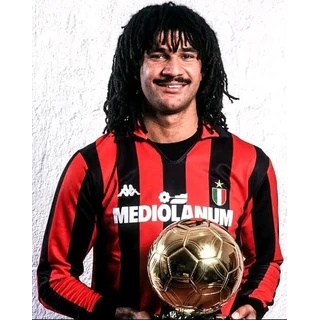
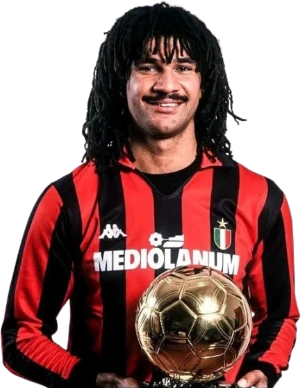
Fix player portraits and club badges

diff --git a/app.js b/app.js
@@ -30,7 +30,7 @@ function trophy(kind,col,stripes){
    glove:'<rect x="19" y="20" width="26" height="24" rx="8" fill="'+M+'"/><rect x="19" y="5" width="6" height="20" rx="3" fill="'+M+'"/><rect x="26" y="3" width="6" height="21" rx="3" fill="'+M+'"/><rect x="33" y="4" width="6" height="21" rx="3" fill="'+M+'"/><rect x="40" y="8" width="5" height="17" rx="2.5" fill="'+M+'"/><rect x="9" y="22" width="13" height="6" rx="3" transform="rotate(30 16 25)" fill="'+M+'"/><rect x="20" y="42" width="24" height="8" rx="2" fill="#2a2018"/><path d="M22 46h20" stroke="'+col+'" stroke-width="2"/>'};
   return '<svg class="trophy" viewBox="0 0 64 64" aria-hidden="true">'+defs+(k[kind]||k.cup)+'</svg>';
 }
-const COMP_BADGES={copa:"copa-america",wwc:"womens-world-cup",pl:"premier-league",liga:"la-liga",seriea:"serie-a",bundes:"bundesliga",ligue1:"ligue-1",portugal:"primeira-liga",ered:"eredivisie",brasileirao:"brasileirao",mls:"mls.svg",spl:"saudi-pro-league",j1:"j1-league"};
+const COMP_BADGES={copa:"copa-america",wwc:"womens-world-cup",pl:"premier-league",liga:"la-liga",seriea:"serie-a",bundes:"bundesliga",ligue1:"ligue-1",portugal:"primeira-liga",ered:"eredivisie",brasileirao:"brasileirao",mls:"custom-mls",spl:"saudi-pro-league",j1:"j1-league"};
 const LEAGUE_BADGE_IDS={"Premier League":"pl","La Liga":"liga","Serie A":"seriea","Bundesliga":"bundes","Ligue 1":"ligue1","Primeira Liga":"portugal","Eredivisie":"ered","Brasileirão Série A":"brasileirao","MLS":"mls","Saudi Pro League":"spl","J1 League":"j1"};
 function leagueBadge(name,cls="league-badge-mini"){const badge=COMP_BADGES[LEAGUE_BADGE_IDS[name]];return badge?'<img class="'+cls+'" src="assets/competition-badges/'+(badge.endsWith(".svg")?badge:badge+'.png')+'?v=assets-20261104" alt="" aria-hidden="true">':''}
 function compArtwork(c){const badge=COMP_BADGES[c.id];return badge?'<img class="trophy comp-logo" src="assets/competition-badges/'+(badge.endsWith(".svg")?badge:badge+'.png')+'?v=assets-20261104'+'" alt="" aria-hidden="true">':trophy(c.icon,c.col,c.stripes)}
@@ -85,12 +85,12 @@ const JVAR={};
     JVAR[c[0]]={d,c:co}})}
 })();
 const PLAYER_PHOTOS={
- "Jude Bellingham":"bellingham","Lamine Yamal":"yamal","Erling Haaland":"haaland","Kylian Mbappé":"mbappe","Michael Olise":"olise","Pedri":"pedri","Vinícius Júnior":"vinicius","Vitinha":"vitinha","Khvicha Kvaratskhelia":"kvaratskhelia","João Neves":"joao-neves",
- "Gonçalo Ramos":"goncalo-ramos","Savinho":"savinho","Sandro Tonali":"sandro-tonali","Mateus Fernandes":"mateus-fernandes","Neymar":"neymar","Ousmane Dembélé":"dembele","Alexander Isak":"alexander-isak","Philippe Coutinho":"philippe-coutinho","João Félix":"joao-felix","Eden Hazard":"eden-hazard","Florian Wirtz":"florian-wirtz","Antoine Griezmann":"antoine-griezmann","Jack Grealish":"jack-grealish","Cristiano Ronaldo":"cristiano-ronaldo-2009","Declan Rice":"declan-rice","Moisés Caicedo":"moises-caicedo","Romelu Lukaku":"romelu-lukaku","Paul Pogba":"paul-pogba","Gareth Bale":"gareth-bale","Antony":"antony","Hugo Ekitiké":"hugo-ekitike","Harry Kane":"harry-kane",
+ "Jude Bellingham":"bellingham","Lamine Yamal":"yamal","Enzo Fernández":"enzo-fernandez","Morgan Rogers":"morgan-rogers","Elliot Anderson":"elliot-anderson","Yan Diomande":"yan-diomande","Bradley Barcola":"bradley-barcola","Carlos Baleba":"carlos-baleba","Gonçalo Ramos":"goncalo-ramos","Savinho":"savinho","Sandro Tonali":"sandro-tonali","Mateus Fernandes":"mateus-fernandes","Iliman Ndiaye":"iliman-ndiaye","Anthony Gordon":"anthony-gordon","Erling Haaland":"haaland","Kylian Mbappé":"mbappe","Michael Olise":"olise","Pedri":"pedri","Vinícius Júnior":"vinicius","Vitinha":"vitinha","Khvicha Kvaratskhelia":"kvaratskhelia","João Neves":"joao-neves",
+ "Neymar":"neymar","Ousmane Dembélé":"dembele","Alexander Isak":"alexander-isak","Philippe Coutinho":"philippe-coutinho","João Félix":"joao-felix","Eden Hazard":"eden-hazard","Florian Wirtz":"florian-wirtz","Antoine Griezmann":"antoine-griezmann","Jack Grealish":"jack-grealish","Cristiano Ronaldo":"cristiano-ronaldo-2009","Declan Rice":"declan-rice","Moisés Caicedo":"moises-caicedo","Romelu Lukaku":"romelu-lukaku","Paul Pogba":"paul-pogba","Gareth Bale":"gareth-bale","Antony":"antony","Hugo Ekitiké":"hugo-ekitike","Harry Kane":"harry-kane",
  "Kaká":"kaka","Zinedine Zidane":"zinedine-zidane","Luís Figo":"luis-figo","Luis Figo":"luis-figo","Hernán Crespo":"hernan-crespo","Christian Vieri":"christian-vieri","Denílson":"denilson","Ronaldo":"ronaldo-brazil","Alan Shearer":"alan-shearer","Gianluigi Lentini":"gianluca-lentini","Gianluca Lentini":"gianluca-lentini","Gianluca Vialli":"gianluca-vialli","Jean-Pierre Papin":"jean-pierre-papin","Roberto Baggio":"roberto-baggio","Ruud Gullit":"ruud-gullit","Diego Maradona":"maradona-1982",
  "Julián Álvarez":"julian-alvarez","Julian Álvarez":"julian-alvarez","Kai Havertz":"kai-havertz","Kevin De Bruyne":"kevin-de-bruyne","Luis Suárez":"luis-suarez","Luís Suárez":"luis-suarez","Hulk":"hulk","Fernando Torres":"fernando-torres-2007","David Villa":"david-villa","Robinho":"robinho","Andriy Shevchenko":"andriy-shevchenko","Michael Essien":"michael-essien","Wayne Rooney":"wayne-rooney","David Beckham":"david-beckham","Rio Ferdinand":"rio-ferdinand"
 };
-function playerPortrait(name,override){const photo=override||PLAYER_PHOTOS[name];return photo?'<img class="avatar player-photo" src="assets/player-photos/'+photo+'.webp?v=player-portraits-20261104c" alt="" aria-hidden="true" loading="lazy">':''}
+function playerPortrait(name,override){const photo=override||PLAYER_PHOTOS[name];return photo?'<img class="avatar player-photo" src="assets/player-photos/'+photo+'.webp?v=player-portraits-20261104d" alt="" aria-hidden="true" loading="lazy">':''}
 function recordPortrait(r){if(r[1]==="Diego Maradona")return r[0]==="1984"?"maradona-1984":"maradona-1982";return PLAYER_PHOTOS[r[1]]}
 function yearPortrait(r){if(r[1]==="Fernando Torres")return r[0]==="2011"?"fernando-torres-2011":"fernando-torres-2007";return PLAYER_PHOTOS[r[1]]}
 function avatar(name,col){
@@ -582,7 +582,7 @@ inits.transfers=function(){
     year:()=>{const max=Math.max(...YEAR_TOP.map(r=>r[5]));return '<p class="count">The most expensive signing of each calendar year since 2000 (£ million). Each bar is coloured in the main colour of the player\'s national team. Hover or tap a bar for the deal.</p><div class="ychart">'+YEAR_TOP.map(r=>'<div class="yc" tabindex="0"><span class="yv">£'+r[5]+'m</span><span class="yb natbar" style="height:'+(r[5]/max*100)+'%;--nc:'+(NATCOL[r[2]]||"#f5c542")+'"></span><span class="yl">'+r[0].slice(2)+'</span><div class="ytip">'+playerPortrait(r[1],yearPortrait(r))+flag(r[2])+'<b>'+r[0]+' · '+esc(r[1])+'</b><br>'+esc(r[3])+' → '+esc(r[4])+'<br>£'+r[5]+'m</div></div>').join("")+'</div><div class="stwrap"><table class="sttable trt"><thead><tr><th>Year</th><th>Player</th><th>From</th><th>To</th><th>Fee</th></tr></thead><tbody>'+YEAR_TOP.slice().reverse().map(r=>'<tr><td>'+r[0]+'</td><td>'+playerPortrait(r[1],yearPortrait(r))+flag(r[2])+'<b>'+esc(r[1])+'</b></td><td><span class="nm">'+teamIcon(r[3],"clubs")+esc(r[3])+'</span></td><td><span class="nm">'+teamIcon(r[4],"clubs")+esc(r[4])+'</span></td><td><b>£'+r[5]+'m</b></td></tr>').join("")+'</tbody></table></div>'},
     top:()=>{const yrs=[...new Set(TOP_FEES.map(r=>r[4]))].sort((a,b)=>b-a);const clubs=[...new Set(TOP_FEES.flatMap(r=>[r[2],r[3]]))].sort();
       return '<p class="count">The '+TOP_FEES.length+' biggest transfer fees ever (€ million, including add-ons where reported). Filter by year, club or position.</p><div class="toolbar"><input type="search" id="tfQ" placeholder="Search a player" aria-label="Search a player"><select id="tfY" aria-label="Year"><option value="">All years</option>'+yrs.map(y=>'<option>'+y+'</option>').join("")+'</select><select id="tfC" aria-label="Club"><option value="">All clubs (buying or selling)</option>'+clubs.map(c=>'<option>'+esc(c)+'</option>').join("")+'</select><select id="tfP" aria-label="Position"><option value="">All positions</option><option value="FW">Forwards</option><option value="MF">Midfielders</option></select></div><p class="count" id="tfN"></p><div class="stwrap"><table class="sttable trt" id="tfT"></table></div>'},
-    summer:()=>{const max=SUMMER_2026[0][3];return '<p class="count">The biggest deals of the summer 2026 window, right after the World Cup (£ million). English clubs spent the most.</p><div class="vlist">'+SUMMER_2026.map((r,i)=>'<div class="vrow"><span class="rk">'+(i+1)+'</span><span class="vn">'+playerPortrait(r[0])+'<span><b>'+esc(r[0])+'</b><small>'+teamIcon(r[1],"clubs",18)+esc(r[1])+' → '+teamIcon(r[2],"clubs",18)+esc(r[2])+'</small></span></span><span class="vbar" style="width:'+(r[3]/max*100)+'%"></span><span class="vv">£'+r[3]+'m</span></div>').join("")+'</div>'},
+    summer:()=>{const max=SUMMER_2026[0][3];return '<p class="count">The biggest deals of the summer 2026 window, right after the World Cup (£ million). English clubs spent the most.</p><div class="vlist summer-list">'+SUMMER_2026.map((r,i)=>'<div class="vrow"><span class="rk">'+(i+1)+'</span><span class="vn">'+playerPortrait(r[0])+'<span><b>'+esc(r[0])+'</b><small>'+teamIcon(r[1],"clubs",18)+esc(r[1])+' → '+teamIcon(r[2],"clubs",18)+esc(r[2])+'</small></span></span><span class="vbar" style="width:'+(r[3]/max*100)+'%"></span><span class="vv">£'+r[3]+'m</span></div>').join("")+'</div>'},
     squads:()=>{const L=Object.keys(TEAM_VALUES);const tot=l=>TEAM_VALUES[l].reduce((a,r)=>a+r[5],0);const m=v=>v>=1000?"€"+(v/1000).toFixed(2)+"bn":"€"+(v<10?v.toFixed(2):Math.round(v*10)/10)+"m";
       const lmax=Math.max(...L.map(tot));
       return '<p class="count">Total market value of every club squad in the seven big European leagues, 2026-27 (Transfermarkt). Pick a league.</p><div class="vlist" style="margin-bottom:14px">'+L.slice().sort((a,b)=>tot(b)-tot(a)).map((l,i)=>'<div class="vrow"><span class="rk'+(i===0?" g":"")+'">'+(i+1)+'</span><span class="vn"><b>'+leagueBadge(l,"value-league-badge")+esc(l)+'</b><small>'+TEAM_VALUES[l].length+' clubs · most valuable: '+teamIcon(TEAM_VALUES[l][0][0],"clubs",20)+esc(TEAM_VALUES[l][0][0])+'</small></span><span class="vbar" style="width:'+(tot(l)/lmax*100)+'%"></span><span class="vv">'+m(tot(l))+'</span></div>').join("")+'</div><div class="btns" id="tvTabs">'+L.map(l=>'<button data-l="'+esc(l)+'">'+esc(l)+'</button>').join("")+'</div><div id="tvOut"></div>'},

diff --git a/club-badges.js b/club-badges.js
@@ -1,1 +1,1 @@
-const CLUB_BADGE_IDS={"1. FC Köln":"122","AC Milan":"103","ADO Den Haag":"2726","AS Monaco":"174","AS Roma":"104","AZ Alkmaar":"140","Abha":"21833","Académico de Viseu":"21607","Ajax":"139","Al Ahli":"8346","Al Diriyah":"131746","Al Ettifaq":"8363","Al Faisaly":"21446","Al Fateh":"13033","Al Hazm":"21964","Al Hilal":"929","Al Ittihad":"2276","Al Khaleej":"21829","Al Kholood":"22028","Al Nassr":"817","Al Riyadh":"21965","Al Shabab":"793","Al Taawoun":"18459","Al-Fayha":"21827","Al-Qadsiah":"22022","Alavés":"96","Alverca":"21613","Angers":"7868","Arouca":"15784","Arsenal":"359","Aston Villa":"362","Atalanta":"105","Athletic Club":"93","Athletico Paranaense":"3458","Atlanta United":"18418","Atlético Madrid":"1068","Atlético Mineiro":"7632","Austin FC":"20906","Auxerre":"172","Avispa Fukuoka":"7107","Bahia":"9967","Barcelona":"83","Bayer Leverkusen":"131","Bayern Munich":"132","Benfica":"1929","Boca Juniors":"5","Bologna":"107","Borussia Dortmund":"124","Borussia Mönchengladbach":"268","Botafogo":"6086","Bournemouth":"349","Braga":"2994","Brentford":"337","Brest":"6997","Brighton":"331","CF Montréal":"9720","Cagliari":"2925","Cambuur":"3736","Casa Pia":"21581","Celta Vigo":"85","Celtic":"256","Cerezo Osaka":"7109","Chapecoense":"9318","Charlotte FC":"21300","Chelsea":"363","Chicago Fire":"182","Club América":"227","Colorado Rapids":"184","Columbus Crew":"183","Como":"2572","Corinthians":"874","Coritiba":"3456","Coventry City":"388","Cruzeiro":"2022","Crystal Palace":"384","Deportivo La Coruña":"90","Eintracht Frankfurt":"125","Elche":"3751","Espanyol":"88","Estoril Praia":"12216","Estrela da Amadora":"21610","Everton":"368","Excelsior":"2566","FC Augsburg":"3841","FC Barcelona":"83","FC Cincinnati":"18267","FC Dallas":"185","FC Groningen":"145","FC Porto":"437","FC Tokyo":"3384","FC Twente":"152","FC Utrecht":"153","Fagiano Okayama":"22522","Famalicão":"12698","Fenerbahçe":"436","Feyenoord":"142","Fiorentina":"109","Flamengo":"819","Fluminense":"3445","Fortuna Sittard":"143","Frosinone":"4057","Fulham":"370","Galatasaray":"432","Gamba Osaka":"7102","Genoa":"3263","Getafe":"2922","Gil Vicente":"3699","Go Ahead Eagles":"3706","Grêmio":"6273","Hamburger SV":"127","Heerenveen":"146","Houston Dynamo":"6077","Hull City":"306","Inter Miami":"20232","Inter Milan":"110","Internacional":"1936","Ipswich Town":"373","JEF United Chiba":"7111","Juventus":"111","Kashima Antlers":"7115","Kashiwa Reysol":"7476","Kawasaki Frontale":"7112","Kyoto Sanga":"21361","LA Galaxy":"187","Lazio":"112","Le Havre":"3236","Le Mans":"2697","Lecce":"113","Leeds United":"357","Lens":"175","Levante":"1538","Lille":"166","Liverpool":"364","Lorient":"273","Los Angeles FC":"18966","Lyon":"167","Machida Zelvia":"22167","Mainz 05":"2950","Mamelodi Sundowns":"7084","Manchester City":"382","Manchester United":"360","Marseille":"176","Marítimo":"552","Minnesota United":"17362","Mirassol":"9169","Mito HollyHock":"131701","Monaco":"174","Monza":"4007","Moreirense":"3696","Málaga":"99","NEC Nijmegen":"147","NEOM SC":"130899","Nacional":"3472","Nagoya Grampus":"7108","Napoli":"114","Nashville SC":"18986","New England Revolution":"189","New York City FC":"17606","New York Red Bulls":"190","Newcastle United":"361","Nice":"2502","Nottingham Forest":"393","Olympique Lyonnais":"167","Olympique de Marseille":"176","Orlando City":"12011","Osasuna":"97","PEC Zwolle":"2565","PSV Eindhoven":"148","Palmeiras":"2029","Paris FC":"6851","Paris Saint-Germain":"160","Parma":"115","Peñarol":"2683","Philadelphia Union":"10739","Portland Timbers":"9723","RB Leipzig":"11420","Racing Santander":"87","Rangers":"257","Rayo Vallecano":"101","Real Betis":"244","Real Madrid":"86","Real Salt Lake":"4771","Real Sociedad":"89","Red Bull Bragantino":"6079","Remo":"4936","Rennes":"169","Rio Ave":"3822","River Plate":"16","Roma":"104","SC Braga":"2994","SC Freiburg":"126","SC Paderborn":"3307","SV Elversberg":"10388","San Diego FC":"22529","San Jose Earthquakes":"191","Sanfrecce Hiroshima":"7114","Santa Clara":"12215","Santos":"2674","Sassuolo":"3997","Schalke 04":"133","Seattle Sounders":"9726","Sevilla":"243","Shimizu S-Pulse":"7104","Sparta Rotterdam":"151","Sporting CP":"2250","Sporting Kansas City":"186","St. Louis City":"21812","Strasbourg":"180","Sunderland":"366","São Paulo":"2026","TSG Hoffenheim":"7911","Telstar":"3735","Tokyo Verdy":"3393","Torino":"239","Toronto FC":"7318","Tottenham Hotspur":"367","Toulouse":"179","Troyes":"170","Udinese":"118","Union Berlin":"598","Urawa Red Diamonds":"3385","V-Varen Nagasaki":"19001","Valencia":"94","Vancouver Whitecaps":"9727","Vasco da Gama":"3454","Venezia":"17530","VfB Stuttgart":"134","Villarreal":"102","Vissel Kobe":"7477","Vitória":"5309","Vitória de Guimarães":"5309","Werder Bremen":"137","Willem II":"156","Yokohama F. Marinos":"7116","DC United":"193","VfL Wolfsburg":"82","Sampdoria":"1038","Burnley":"1132","West Ham United":"379"};
+const CLUB_BADGE_IDS={"1. FC Köln":"122","AC Milan":"103","ADO Den Haag":"2726","AS Monaco":"174","AS Roma":"104","AZ Alkmaar":"140","Abha":"21833","Académico de Viseu":"21607","Ajax":"139","Al Ahli":"8346","Al Diriyah":"131746","Al Ettifaq":"8363","Al Faisaly":"21446","Al Fateh":"13033","Al Hazm":"21964","Al Hilal":"929","Al Ittihad":"2276","Al Khaleej":"21829","Al Kholood":"22028","Al Nassr":"817","Al Riyadh":"21965","Al Shabab":"793","Al Taawoun":"18459","Al-Fayha":"21827","Al-Qadsiah":"22022","Alavés":"96","Alverca":"21613","Angers":"7868","Arouca":"15784","Arsenal":"359","Aston Villa":"362","Atalanta":"105","Athletic Club":"93","Athletico Paranaense":"3458","Atlanta United":"18418","Atlético Madrid":"1068","Atlético Mineiro":"7632","Austin FC":"20906","Auxerre":"172","Avispa Fukuoka":"7107","Bahia":"9967","Barcelona":"83","Bayer Leverkusen":"131","Bayern Munich":"132","Benfica":"1929","Boca Juniors":"5","Bologna":"107","Borussia Dortmund":"124","Borussia Mönchengladbach":"268","Botafogo":"6086","Bournemouth":"349","Braga":"2994","Brentford":"337","Brest":"6997","Brighton":"331","CF Montréal":"9720","Cagliari":"2925","Cambuur":"3736","Casa Pia":"21581","Celta Vigo":"85","Celtic":"256","Cerezo Osaka":"7109","Chapecoense":"9318","Charlotte FC":"21300","Chelsea":"363","Chicago Fire":"182","Club América":"227","Colorado Rapids":"184","Columbus Crew":"183","Como":"2572","Corinthians":"874","Coritiba":"3456","Coventry City":"388","Cruzeiro":"2022","Crystal Palace":"384","Deportivo La Coruña":"90","Eintracht Frankfurt":"125","Elche":"3751","Espanyol":"88","Estoril Praia":"12216","Estrela da Amadora":"21610","Everton":"368","Excelsior":"2566","FC Augsburg":"3841","FC Barcelona":"83","FC Cincinnati":"18267","FC Dallas":"185","FC Groningen":"145","FC Porto":"437","FC Tokyo":"3384","FC Twente":"152","FC Utrecht":"153","Fagiano Okayama":"22522","Famalicão":"12698","Fenerbahçe":"436","Feyenoord":"142","Fiorentina":"109","Flamengo":"819","Fluminense":"3445","Fortuna Sittard":"143","Frosinone":"4057","Fulham":"370","Galatasaray":"432","Gamba Osaka":"7102","Genoa":"3263","Getafe":"2922","Gil Vicente":"3699","Go Ahead Eagles":"3706","Grêmio":"6273","Hamburger SV":"127","Heerenveen":"146","Houston Dynamo":"6077","Hull City":"306","Inter Miami":"20232","Inter Milan":"110","Internacional":"1936","Ipswich Town":"373","JEF United Chiba":"7111","Juventus":"111","Kashima Antlers":"7115","Kashiwa Reysol":"7476","Kawasaki Frontale":"7112","Kyoto Sanga":"21361","LA Galaxy":"187","Lazio":"112","Le Havre":"3236","Le Mans":"2697","Lecce":"113","Leeds United":"357","Lens":"175","Levante":"1538","Lille":"166","Liverpool":"364","Lorient":"273","Los Angeles FC":"18966","Lyon":"167","Machida Zelvia":"22167","Mainz 05":"2950","Mamelodi Sundowns":"7084","Manchester City":"382","Manchester United":"360","Marseille":"176","Marítimo":"552","Minnesota United":"17362","Mirassol":"9169","Mito HollyHock":"131701","Monaco":"174","Monza":"4007","Moreirense":"3696","Málaga":"99","NEC Nijmegen":"147","NEOM SC":"130899","Nacional":"3472","Nagoya Grampus":"7108","Napoli":"114","Nashville SC":"18986","New England Revolution":"189","New York City FC":"17606","New York Red Bulls":"190","Newcastle United":"361","Nice":"2502","Nottingham Forest":"393","Olympique Lyonnais":"167","Olympique de Marseille":"176","Orlando City":"12011","Osasuna":"97","PEC Zwolle":"2565","PSV Eindhoven":"148","Palmeiras":"2029","Paris FC":"6851","Paris Saint-Germain":"160","Parma":"115","Peñarol":"2683","Philadelphia Union":"10739","Portland Timbers":"9723","RB Leipzig":"11420","Racing Santander":"87","Rangers":"257","Rayo Vallecano":"101","Real Betis":"244","Real Madrid":"86","Real Salt Lake":"4771","Real Sociedad":"89","Red Bull Bragantino":"6079","Remo":"4936","Rennes":"169","Rio Ave":"3822","River Plate":"16","Roma":"104","SC Braga":"2994","SC Freiburg":"126","SC Paderborn":"3307","SV Elversberg":"10388","San Diego FC":"22529","San Jose Earthquakes":"191","Sanfrecce Hiroshima":"7114","Santa Clara":"12215","Santos":"2674","Sassuolo":"3997","Schalke 04":"133","Seattle Sounders":"9726","Sevilla":"243","Shimizu S-Pulse":"7104","Sparta Rotterdam":"151","Sporting CP":"2250","Sporting Kansas City":"186","St. Louis City":"21812","Strasbourg":"180","Sunderland":"366","São Paulo":"2026","TSG Hoffenheim":"7911","Telstar":"3735","Tokyo Verdy":"3393","Torino":"239","Toronto FC":"7318","Tottenham Hotspur":"custom-tottenham","Ulsan HD":"custom-ulsan-hd","Ulsan Hyundai":"custom-ulsan-hd","Al Ain FC":"custom-al-ain-fc","Al Ain":"custom-al-ain-fc","Al Ahly":"custom-al-ahly","Al Ahly FC":"custom-al-ahly","Zamalek":"custom-zamalek","Zamalek SC":"custom-zamalek","Wydad AC":"custom-wydad-ac","Wydad Casablanca":"custom-wydad-ac","Espérance de Tunis":"custom-esperance-de-tunis","Esperance de Tunis":"custom-esperance-de-tunis","TP Mazembe":"custom-tp-mazembe","Auckland City":"custom-auckland-city","Toulouse":"179","Troyes":"170","Udinese":"118","Union Berlin":"598","Urawa Red Diamonds":"3385","V-Varen Nagasaki":"19001","Valencia":"94","Vancouver Whitecaps":"9727","Vasco da Gama":"3454","Venezia":"17530","VfB Stuttgart":"134","Villarreal":"102","Vissel Kobe":"7477","Vitória":"5309","Vitória de Guimarães":"5309","Werder Bremen":"137","Willem II":"156","Yokohama F. Marinos":"7116","DC United":"193","VfL Wolfsburg":"82","Sampdoria":"1038","Burnley":"1132","West Ham United":"379"};

diff --git a/style.css b/style.css
@@ -558,7 +558,8 @@ details.lclub[open]{grid-column:span 2;background:var(--panel2)}
 .yc:hover .yb.natbar,.yc:focus .yb.natbar{filter:brightness(1.12);outline:2px solid var(--gold)}
 .yv{writing-mode:horizontal-tb;transform:none;font-size:10.5px;font-weight:600;color:var(--line);letter-spacing:-.02em;margin-bottom:3px}
 @media(max-width:1100px){.yv{font-size:9px}}
-#clubLeagues img[src*="mls.svg"]{width:28px;height:38px;object-fit:contain}
+#clubLeagues img[src*="custom-mls"]{width:30px;height:30px;object-fit:contain;vertical-align:middle}
 .player-photo{width:46px;height:46px;object-fit:cover;object-position:center 24%;border-radius:50%;background:var(--panel2);border:2px solid var(--gold);padding:2px;vertical-align:middle}.sttable td:nth-child(2)>.player-photo{margin-right:7px}
 
-.ytip .player-photo{width:32px;height:32px;object-fit:cover;border-radius:50%;vertical-align:middle;margin-right:6px}
+.player-photo[src*="antoine-griezmann"]{width:62px;height:62px;object-position:center 20%}.ytip .player-photo{width:32px;height:32px;object-fit:cover;border-radius:50%;vertical-align:middle;margin-right:6px}.ytip .player-photo[src*="antoine-griezmann"]{width:48px;height:48px}
+.summer-list .vn{flex-direction:row!important;align-items:center!important;gap:10px!important}.summer-list .vn>.player-photo{width:44px;height:44px;flex:0 0 44px}

diff --git a/index.html b/index.html
@@ -14,7 +14,7 @@
 <script src="https://cdnjs.cloudflare.com/ajax/libs/d3/7.9.0/d3.min.js" defer></script>
 <script src="https://cdn.jsdelivr.net/npm/topojson-client@3/dist/topojson-client.min.js" defer></script>
 <script src="data.js?v=club-logos-20261104" defer></script>
-<script src="club-badges.js?v=west-ham-player-20261104" defer></script>
+<script src="club-badges.js?v=custom-team-badges-20261104" defer></script>
 <script src="standings.js" defer></script>
 <script src="extra.js" defer></script>
 <script src="profiles.js" defer></script>
